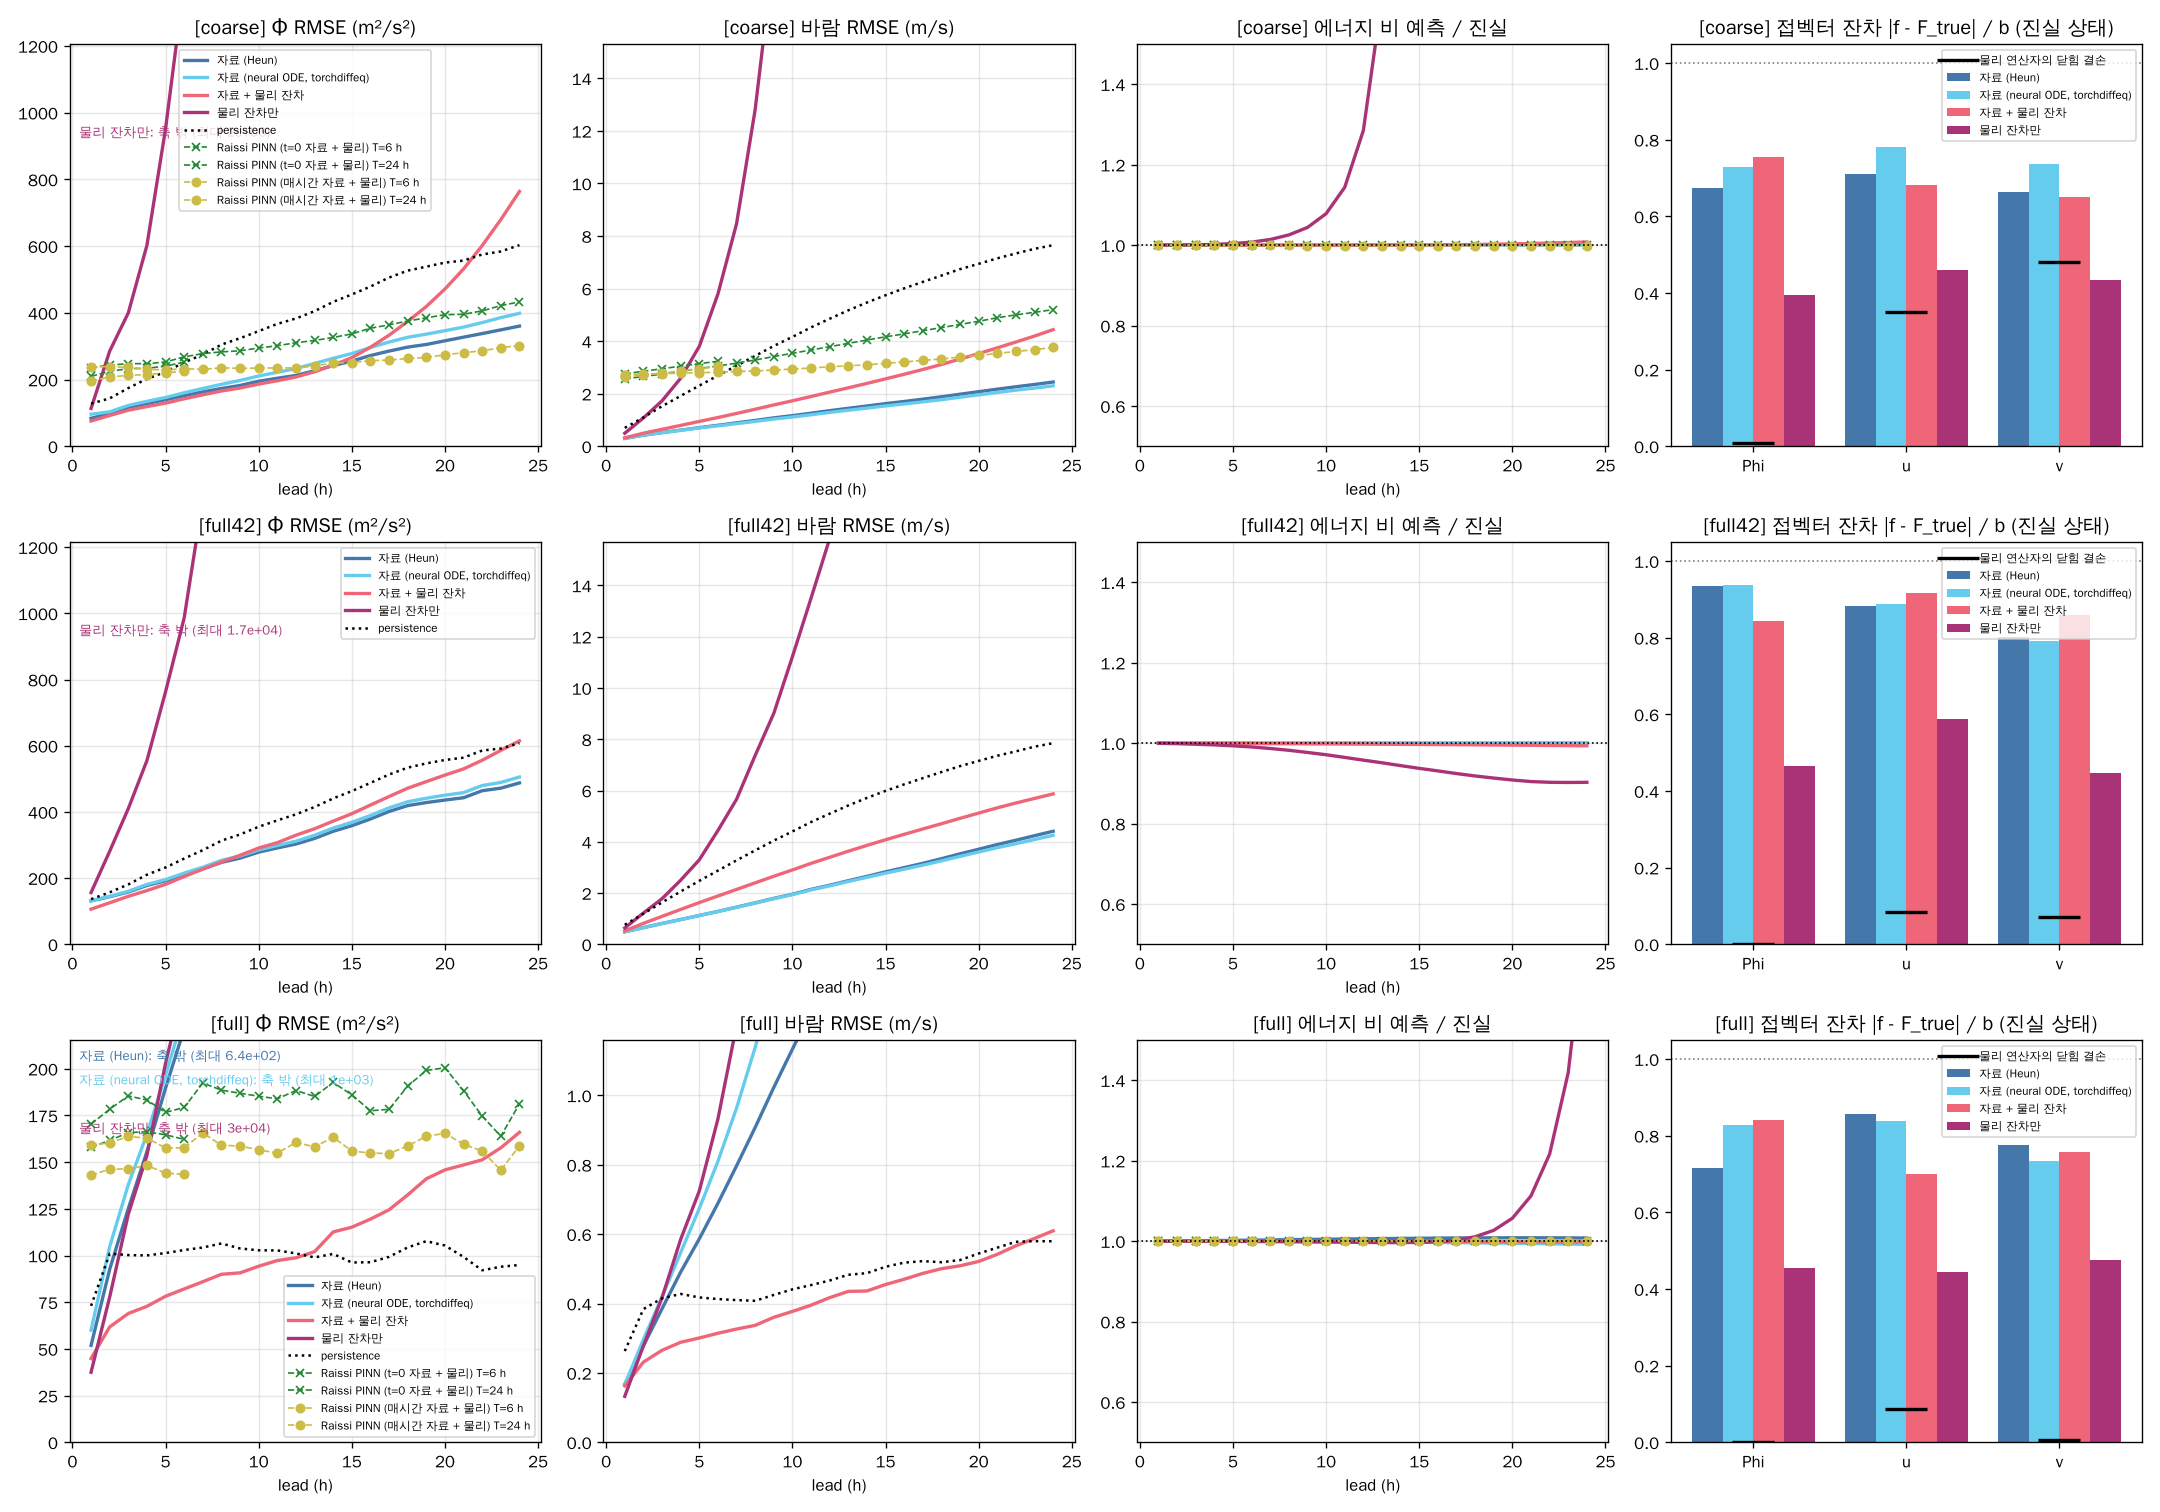
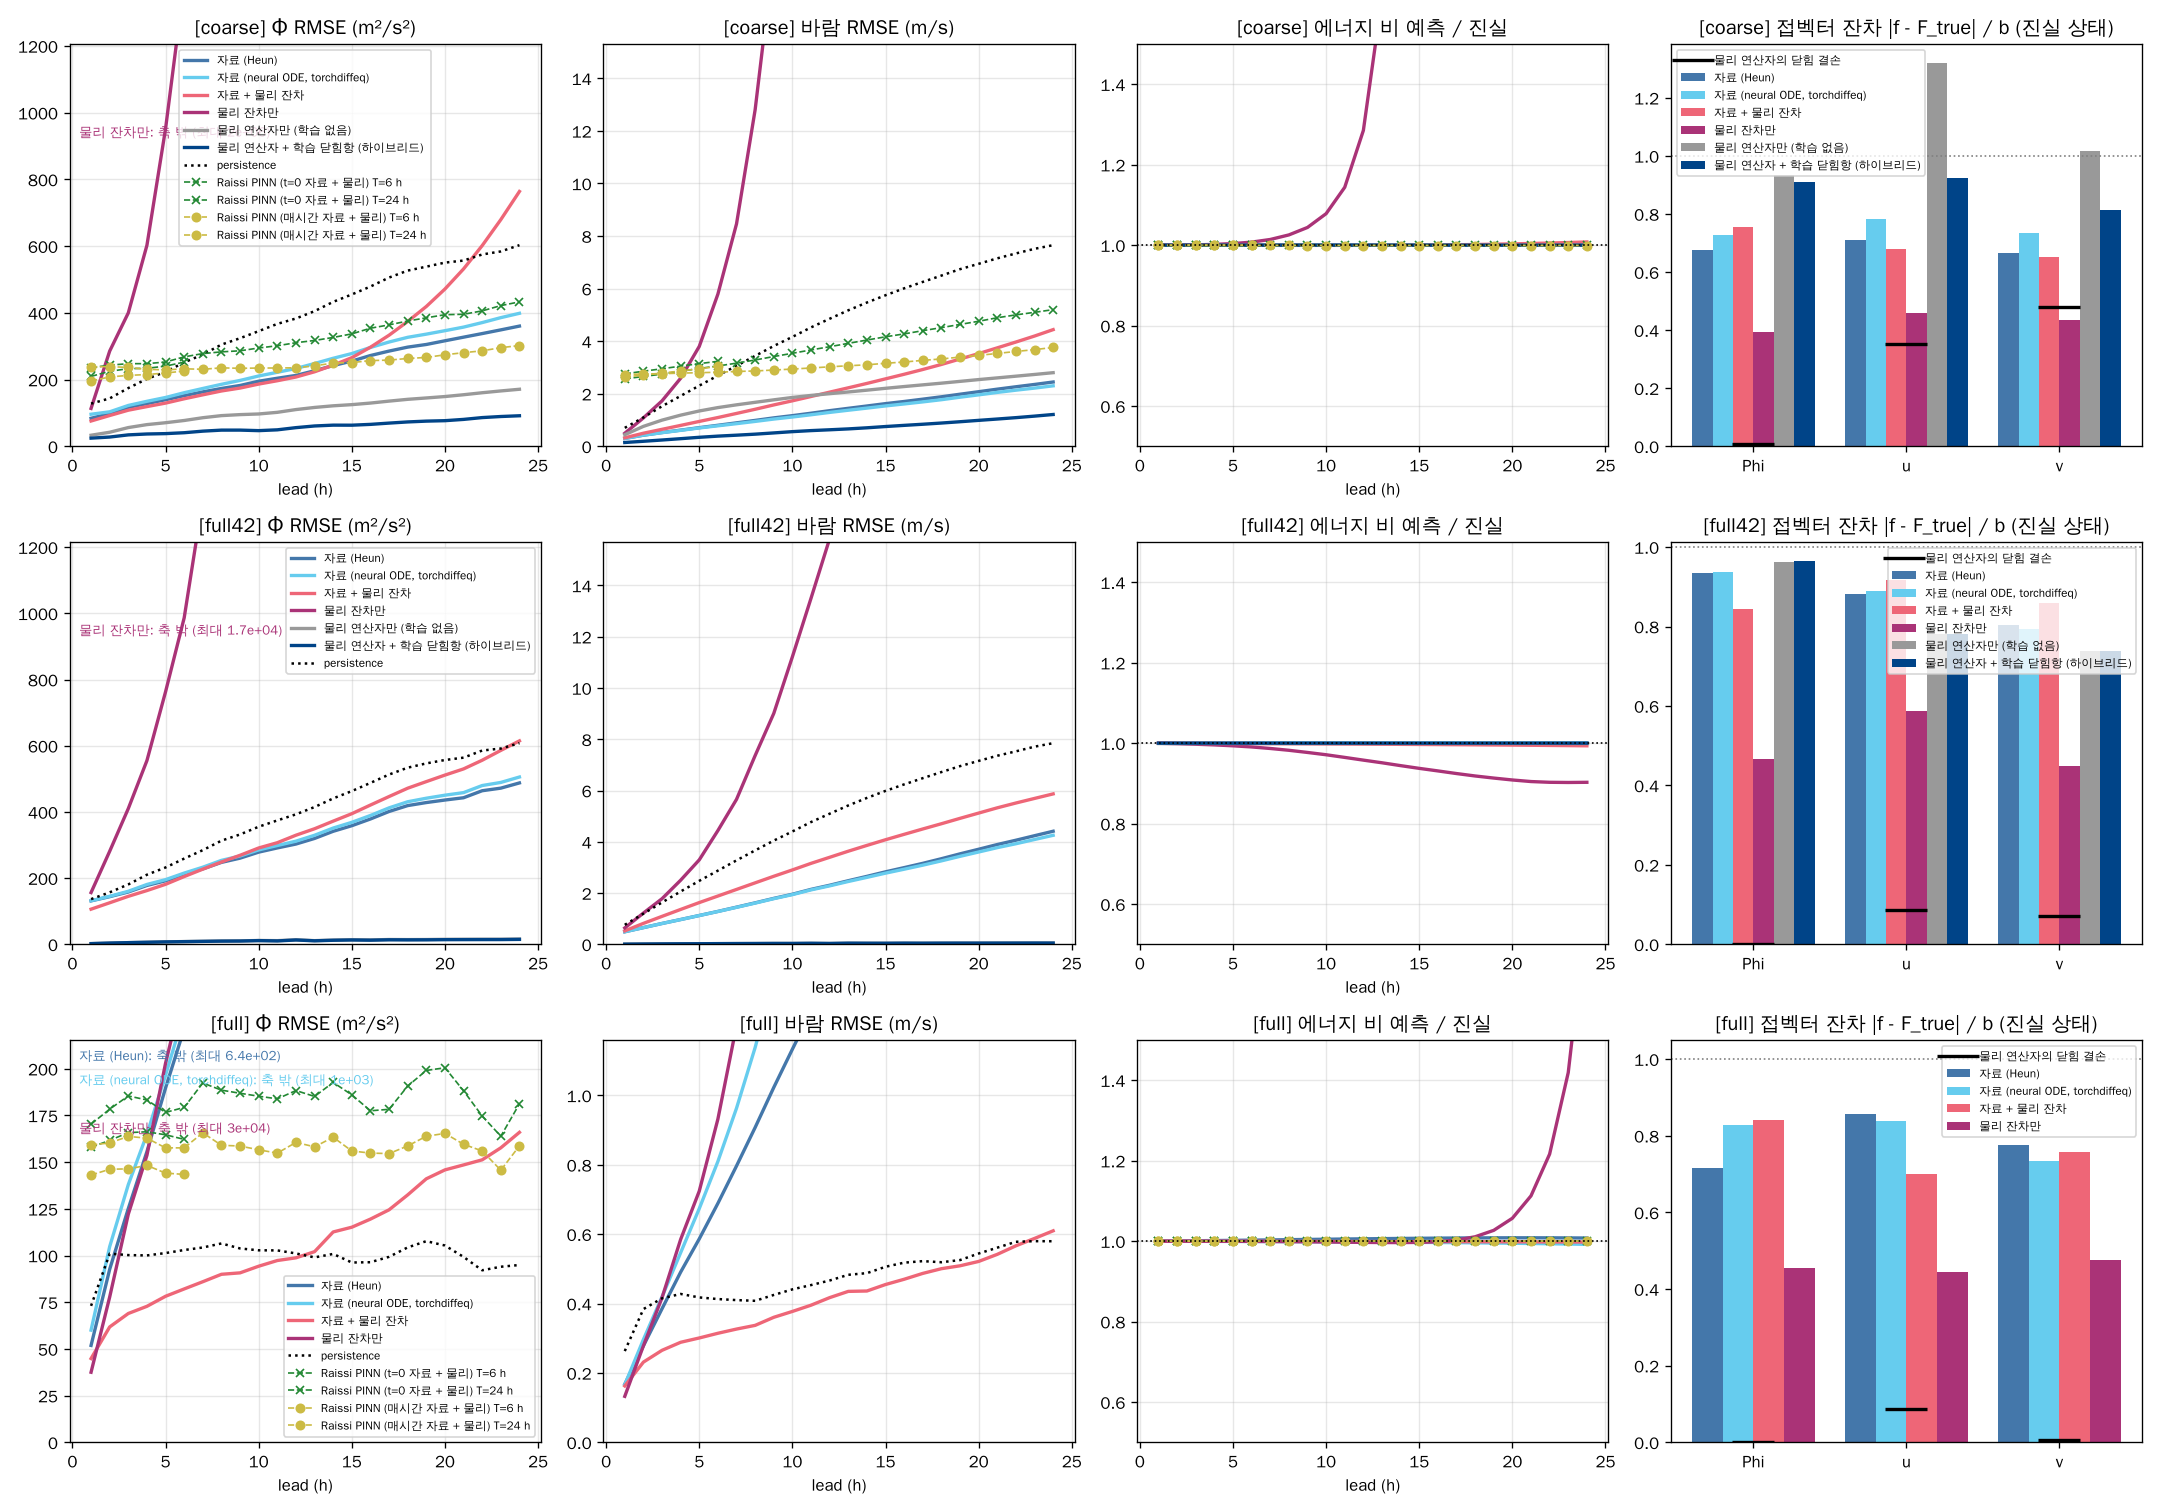
Step 17 full42 hybrid rerun (15 min substeps) and step 18 one-step operator forecast + G(x) feature arm sections
- docs/step17_swe_pinn.md 3.5: full42 phys 16.1 / hybrid 14.9 vs data 488 (24 h Phi); figure replotted
- docs/step18_downscaling.md: one-step x + alpha G dt vs persistence table (alpha 1 worse than persistence on all
  grids), section 5 dyn_gfeat (24-72 h better, 144 h worse, KE ratio 1.07)
- step18_resolution_test.py: chunked interpolation (memory), one-step diagnostic; run_step17_queue_d.sh

Claude-Session: https://claude.ai/code/session_01M3qvwPDycdS2QFhYHMzru8

diff --git a/scripts/step18_resolution_test.py b/scripts/step18_resolution_test.py
@@ -254,7 +254,10 @@ def main(argv=None):
     uc, inv_c = np.unique(ci, return_inverse=True)
     xc = load_states(coarse_path, uc, mean, std)[torch.from_numpy(inv_c.reshape(ci.shape))]
     n = xf.shape[0]
-    xi = interpolate(xc.reshape(n * 3, *xc.shape[2:]), lat_c, lat_f, len(lon_f)).reshape(n, 3, *xf.shape[2:])
+    xi = torch.empty_like(xf)
+    for i in range(0, n, 8):  # chunked: the spline works in float64 (memory)
+        xi[i:i + 8] = interpolate(xc[i:i + 8].reshape(-1, *xc.shape[2:]), lat_c, lat_f, len(lon_f)
+                                  ).reshape(-1, 3, *xf.shape[2:])
     xi[:, :, OROG] = xf[:, :, OROG]  # the downscaler knows the true fine topography
     gap = interpolation_gap(xi[:, 1], xf[:, 1])
     print("interpolation gap (rel RMSE to the fine field / fine power beyond k=32): "

diff --git a/docs/step18_downscaling.md b/docs/step18_downscaling.md
@@ -40,18 +40,40 @@
 
 진단식 잔차 RMS: mass coarse 2.8e-6, interp 2.9e-6, fine 4.8e-6 (보존 재격자는 비발산을 보존하지 않음); hyd 세 원천 모두 3.0.
 
+**한 걸음 예보 (연산자만의 ERA5 arm)**: x + α·G(x)·6 h 의 6 h RMSE / 지속(persistence), α = 1이 연산자를 그대로 적분하는 것, α < 1은 크기를 줄인 것 (92 상태, 전 층 | 대표 층):
+
+| 원천 | u (전 층 \| 500 hPa) α = 0.25 / 0.5 / 1 | v α = 0.25 / 0.5 / 1 | T (전 층 \| 850 hPa) α = 0.25 / 0.5 / 1 |
+|---|---|---|---|
+| coarse 5.625° | 0.92\|0.89 / 1.01\|0.97 / 1.54\|1.49 | 0.92\|0.92 / 1.07\|1.08 / 1.75\|1.78 | 1.00\|1.08 / 1.25\|1.45 / 2.11\|2.51 |
+| interp 2.8° | 0.90\|0.88 / 0.96\|0.92 / 1.43\|1.36 | 0.88\|0.87 / 0.90\|0.88 / 1.31\|1.28 | 0.95\|1.00 / 1.12\|1.22 / 1.81\|1.98 |
+| fine 2.8° 실제 | 0.91\|0.90 / 0.98\|0.94 / 1.44\|1.36 | 0.90\|0.90 / 0.95\|0.95 / 1.39\|1.41 | 1.01\|1.01 / 1.27\|1.26 / 2.13\|2.07 |
+
+연산자를 그대로 한 걸음 적분하면(α = 1) 세 격자 모두 지속보다 1.3~2.5배 나쁘고, 크기를 1/4로 줄여야 u/v에서 지속보다 8~12 % 낫고 T는 지속과 같습니다. 같은 6 h에서 자료만 코어는 z500 89 대 지속 222(−60 %)입니다. 17단계 천수방정식의 "연산자만" arm이 자료 학습의 1/2~1/30 오차였던 것과 정반대입니다.
+
 ### 판독
 
 1. **실제 2.8° 자료는 보간보다 연산자를 더 맞히지 않습니다.** u 0.56 = 0.56, v 0.60 < 0.63, T 0.35 < 0.42, q 0.39 ≈ 0.38. 더 고운 격자가 주는 이득(v 0.50→0.63, T 0.35→0.42)은 **스텐실의 절단오차 감소**이고, 이는 보간으로 공짜로 얻습니다. 실제 자료는 거기에 연산자가 설명 못 하는 작은 규모의 경향(‖D‖ +16 %)을 더해서 T는 coarse 수준으로 되돌아갑니다. SR 모델의 출력은 interp와 fine 사이이므로, **완벽한 SR이라도 연산자 상관은 보간보다 좋아질 수 없습니다.**
 2. **큰 규모(k≤8)의 파워 비는 실제 자료에서 더 높습니다**(u 0.82→1.07, v 0.45→0.55). 5.625°의 상자 평균이 지운 진폭·위도 구조가 큰 규모의 균형에는 보입니다. 즉 "새 정보"는 있으나, 모든 규모를 합친 상관에서는 작은 규모의 손해에 상쇄됩니다. 이것이 SR이 줄 수 있는 이득의 상한이고, 그 이득은 u/v의 큰 규모에만 있습니다.
 3. **T는 세 격자 모두 0.35~0.42, skill −3 ~ −6.** 온도 방정식의 병목은 수평 해상도가 아니라 닫힘(비단열 가열, ω, 12층)입니다. 16단계에서 본 "T 경향 비 0.27"은 downscaling으로 풀리지 않습니다.
-4. **skill은 모든 격자·방정식에서 음수**: 이산 연산자의 자체 경향은 실제 경향보다 2~2.8배 큽니다(‖R0‖/‖D‖). 상관 0.5~0.6은 "방향은 반쯤 맞고 크기는 2배 틀린" 연산자입니다. ERA5에서 "정확한 연산자 + 학습 닫힘항" 하이브리드(17단계의 hybrid arm)를 만들면 닫힘항이 연산자 경향의 절반 이상을 **되돌려야** 하므로, 구조가 주는 사전지식은 크지 않습니다. 이것이 ERA5 하이브리드를 적분 형태로 만들지 않는 정량적 근거입니다(그 외의 이유: 300 m/s 중력파의 CFL로 6 h에 24 부단계, Φ·sp에 예보식이 없어 닫힌 계가 아님).
+4. **skill은 모든 격자·방정식에서 음수**: 이산 연산자의 자체 경향은 실제 경향보다 2~2.8배 큽니다(‖R0‖/‖D‖). 상관 0.5~0.6은 "방향은 반쯤 맞고 크기는 2배 틀린" 연산자입니다. 한 걸음 예보 표가 같은 말을 합니다: 그대로 적분하면 지속보다 나쁘고, 1/4로 줄여야 10 % 낫습니다. ERA5에서 "정확한 연산자 + 학습 닫힘항" 하이브리드(17단계의 hybrid arm)를 만들면 닫힘항이 연산자 경향의 절반 이상을 **되돌려야** 하므로, 구조가 주는 사전지식은 크지 않습니다. 이것이 ERA5 하이브리드를 적분 형태로 만들지 않는 정량적 근거입니다(그 외의 이유: 300 m/s 중력파의 CFL로 6 h에 24 부단계, Φ·sp에 예보식이 없어 닫힌 계가 아님).
 
 ### 결정
 
 - **SR을 ERA5 앞단에 두는 실험은 하지 않습니다.** 상한 시험에서 이득이 보간으로 대체되고, T의 병목은 수평이 아니며, 2.8°에서의 sequence FM/멤버 생성은 CPU 밖(5.625°에서 시험 연도당 55분 → 4배 격자면 학습·표본 모두 4배 이상)이고, 채점은 5.625°라서 결과를 다시 평균해야 합니다.
 - 공짜로 얻을 수 있는 것은 **연산자를 보간된 2.8° 격자에서 계산하는 것**(v 상관 +0.13, T +0.07)인데, 현재 보고 모델(13단계 regm_sband_clim_flow)은 물리 연산자를 멤버 경로에 쓰지 않으므로(hyd 투영은 연직 폐형식, 격자 무관) 점수에는 닿지 않습니다. 물리 연산자를 다시 멤버 경로에 넣는 날(예: G(x) 특징 arm) 2.8° 스텐실을 쓰면 됩니다.
 - 남는 ERA5 쪽 "물리를 구조로" 시험은 **G(x) = −R0(x)를 코어의 입력 특징으로 주는 arm**뿐입니다: 상관 0.5의 경향 추정을 네트워크가 맞는 곳에서만 쓰게 하는 설계로, 적분 형태의 CFL·닫힘 문제가 없습니다. 17단계 SWE hybrid arm(정확한 연산자 + 학습 닫힘항)이 끝나면 그 결과와 함께 판단합니다.
+
+## 5. 후속: ERA5에서 "물리를 구조로" 남은 길 — 연산자 경향 G(x)를 코어의 입력 특징으로 (dyn_gfeat)
+
+17단계 3.5의 하이브리드(정확한 연산자 + 학습 닫힘항)는 ERA5 5.625°에서는 적분 형태로 만들 수 없습니다(3절 판독 4). 대신 이산 연산자의 자체 경향 G(x) = −R0(x)(u, v, T, q × 12층 = 48채널, ERA5 RMS로 나누고 지하 격자점 0, ±5 클램프, 기울기 없음)를 16단계 자료만 코어(dyn_lp0)의 **입력 특징**으로 더했습니다(`pgcfm/dyncore.py` OperatorFeatures, `run_step16_dynpinn.py --gfeat`, 부단계마다 연산자 1회 평가, Heun의 두 단계가 공유). 학습·검증·씨앗은 dyn_lp0과 같습니다(2012~2015, 4000 반복, 2016 검증 IC 16개; 학습 76분 대 34분).
+
+| | z500 RMSE 24 / 72 / 144 h | t2m 24 / 144 h | t850 24 / 144 h | KE 비 24 / 144 h | 증분 진폭 24 h |
+| --- | --- | --- | --- | --- | --- |
+| dyn_lp0 (자료만), ClimODE IC 2017~18 | 217 / 503 / 817 | 1.59 / 3.90 | 1.66 / 3.80 | 0.944 / 0.877 | 0.65 |
+| dyn_gfeat (+G(x) 특징) | **197** / **492** / 888 | 1.57 / 4.55 | 1.59 / 4.26 | 0.939 / **1.066** | 0.67 |
+| 13단계 회귀 평균 (참고) | 244 / 522 / 778 | | | | |
+
+판독. G(x)는 **24~72 h를 돕고(z500 −9 %, −2 %) 96 h 뒤로 해칩니다**(144 h +9 %, t2m +17 %). 검증 rollout의 강형 잔차 비(예측/진실)가 u에서 126 h에 2.7(dyn_lp0) → 4.3으로 커지고 KE 비가 1.07을 넘습니다: 특징이 코어 자신의 상태에서 계산되므로 상태가 틀어지면 G(x)도 틀어져 되먹임이 생깁니다(상관 0.5의 힌트는 분석장 근처에서만 힌트). 24 h 197은 이 저장소의 4년 CPU 코어 중 최저(14단계 norm-bounded 연산자의 144 h 756과 반대쪽)이고, 144 h는 여전히 회귀 평균(778)에 집니다. 앙상블(core_band: G(x) 코어 평균 + FM 편차 + band Γ)의 채점은 아래 표에 추가합니다.
 
 ## 4. 약점
 

diff --git a/docs/step17_swe_pinn.md b/docs/step17_swe_pinn.md
@@ -166,7 +166,15 @@ coarse (T42 진실 → T21 학습기, 닫힘 결손 u 0.35 v 0.48), 24 h Φ RMSE
 3. **접벡터 잔차는 hybrid가 data보다 나쁩니다**(0.91 대 0.67). 시간당 증분을 접벡터로 읽으면 하이브리드는 "자료 상태에서의 접선"을 더 못 맞히면서 궤적은 4배 정확합니다. 3.4의 교훈(접벡터 정확도 ≠ 궤적 정확도)이 반대 방향으로도 성립합니다.
 4. **ERA5로 옮길 때의 조건.** 이 결과는 연산자가 정확하고 닫힌 계(Φ·u·v 모두 예보식이 있음)일 때입니다. 5.625° ERA5의 이산 연산자는 실제 경향과 상관 0.5(u, v)/0.35(T), 크기 2배이고(18단계), Φ·sp에 예보식이 없으며 CFL로 6 h에 24 부단계가 필요합니다. 그래서 ERA5에서는 적분형 하이브리드 대신 연산자 경향 G(x)를 코어 입력 특징으로 주는 arm(18단계 후속, dyn_gfeat)으로 시험합니다.
 
-full42(정확한 연산자, T42 진실) 결과는 큐가 끝나는 대로 추가합니다(phys ≈ 진실이 구현 확인).
+**full42** (T42 진실 = T42 학습기, 닫힘 결손 0.09 = hyperdiffusion의 음해/양해 차이뿐). 30분 RK4 부단계는 T42에서 중력파 CFL(ωh ≈ 3.6 > 2.8)을 넘어 1 h 뒤 발산했고(큐 c), 15분(`--hybrid-substeps 4`, 큐 d)으로 다시 돌렸습니다. hidden 16, 1000 반복, 3.4 s/it.
+
+| arm | 1 h | 6 h | 12 h | 24 h Φ (지속 608) | 바람 24 h (지속 7.85) | 제트 창 96/120/144/168 h | 무작위 창 (지속 242/267) |
+| --- | --- | --- | --- | --- | --- | --- | --- |
+| data | 131 | 211 | 303 | 488 | 4.41 | 498/593/667/642 | 254/272 |
+| phys (학습 없음) | 2.0 | 8.4 | 13.8 | **16.1** | **0.05** | 1.0/1.0/1.0/0.9 | 46.6/46.2 |
+| hybrid | 2.2 | 8.1 | 13.1 | **14.9** | **0.05** | 1.6/1.6/1.7/2.0 | 41.3/41.4 |
+
+정확한 연산자에서는 연산자만으로 진실의 1/30 오차(제트 창 1.0 = 시간적분 차이뿐; 무작위 창 46은 작은 규모가 많은 흐름에서 hyperdiffusion을 양해 경향으로 쓴 차이)이고, 학습 닫힘항은 그 차이를 무작위 창에서 10 % 더 줄이며 제트 창에서는 0.6 더합니다(닫힘이 거의 없으니 배울 것이 없음). 자료 학습(488)과의 격차는 coarse의 4배에서 30배로 벌어집니다. 세 설정을 합치면: **"구조로서의 물리"의 가치는 연산자의 정확도에 비례하고, 닫힘항의 가치는 닫힘 결손에 비례합니다**(coarse: 결손 0.35~0.48 → 하이브리드가 연산자만의 절반; full42: 결손 0.09 → 7 %). ERA5 5.625°는 연산자 상관 0.5, 크기 2배라 이 축의 반대쪽 끝에 있습니다.
 
 ## 4. 약점
 
